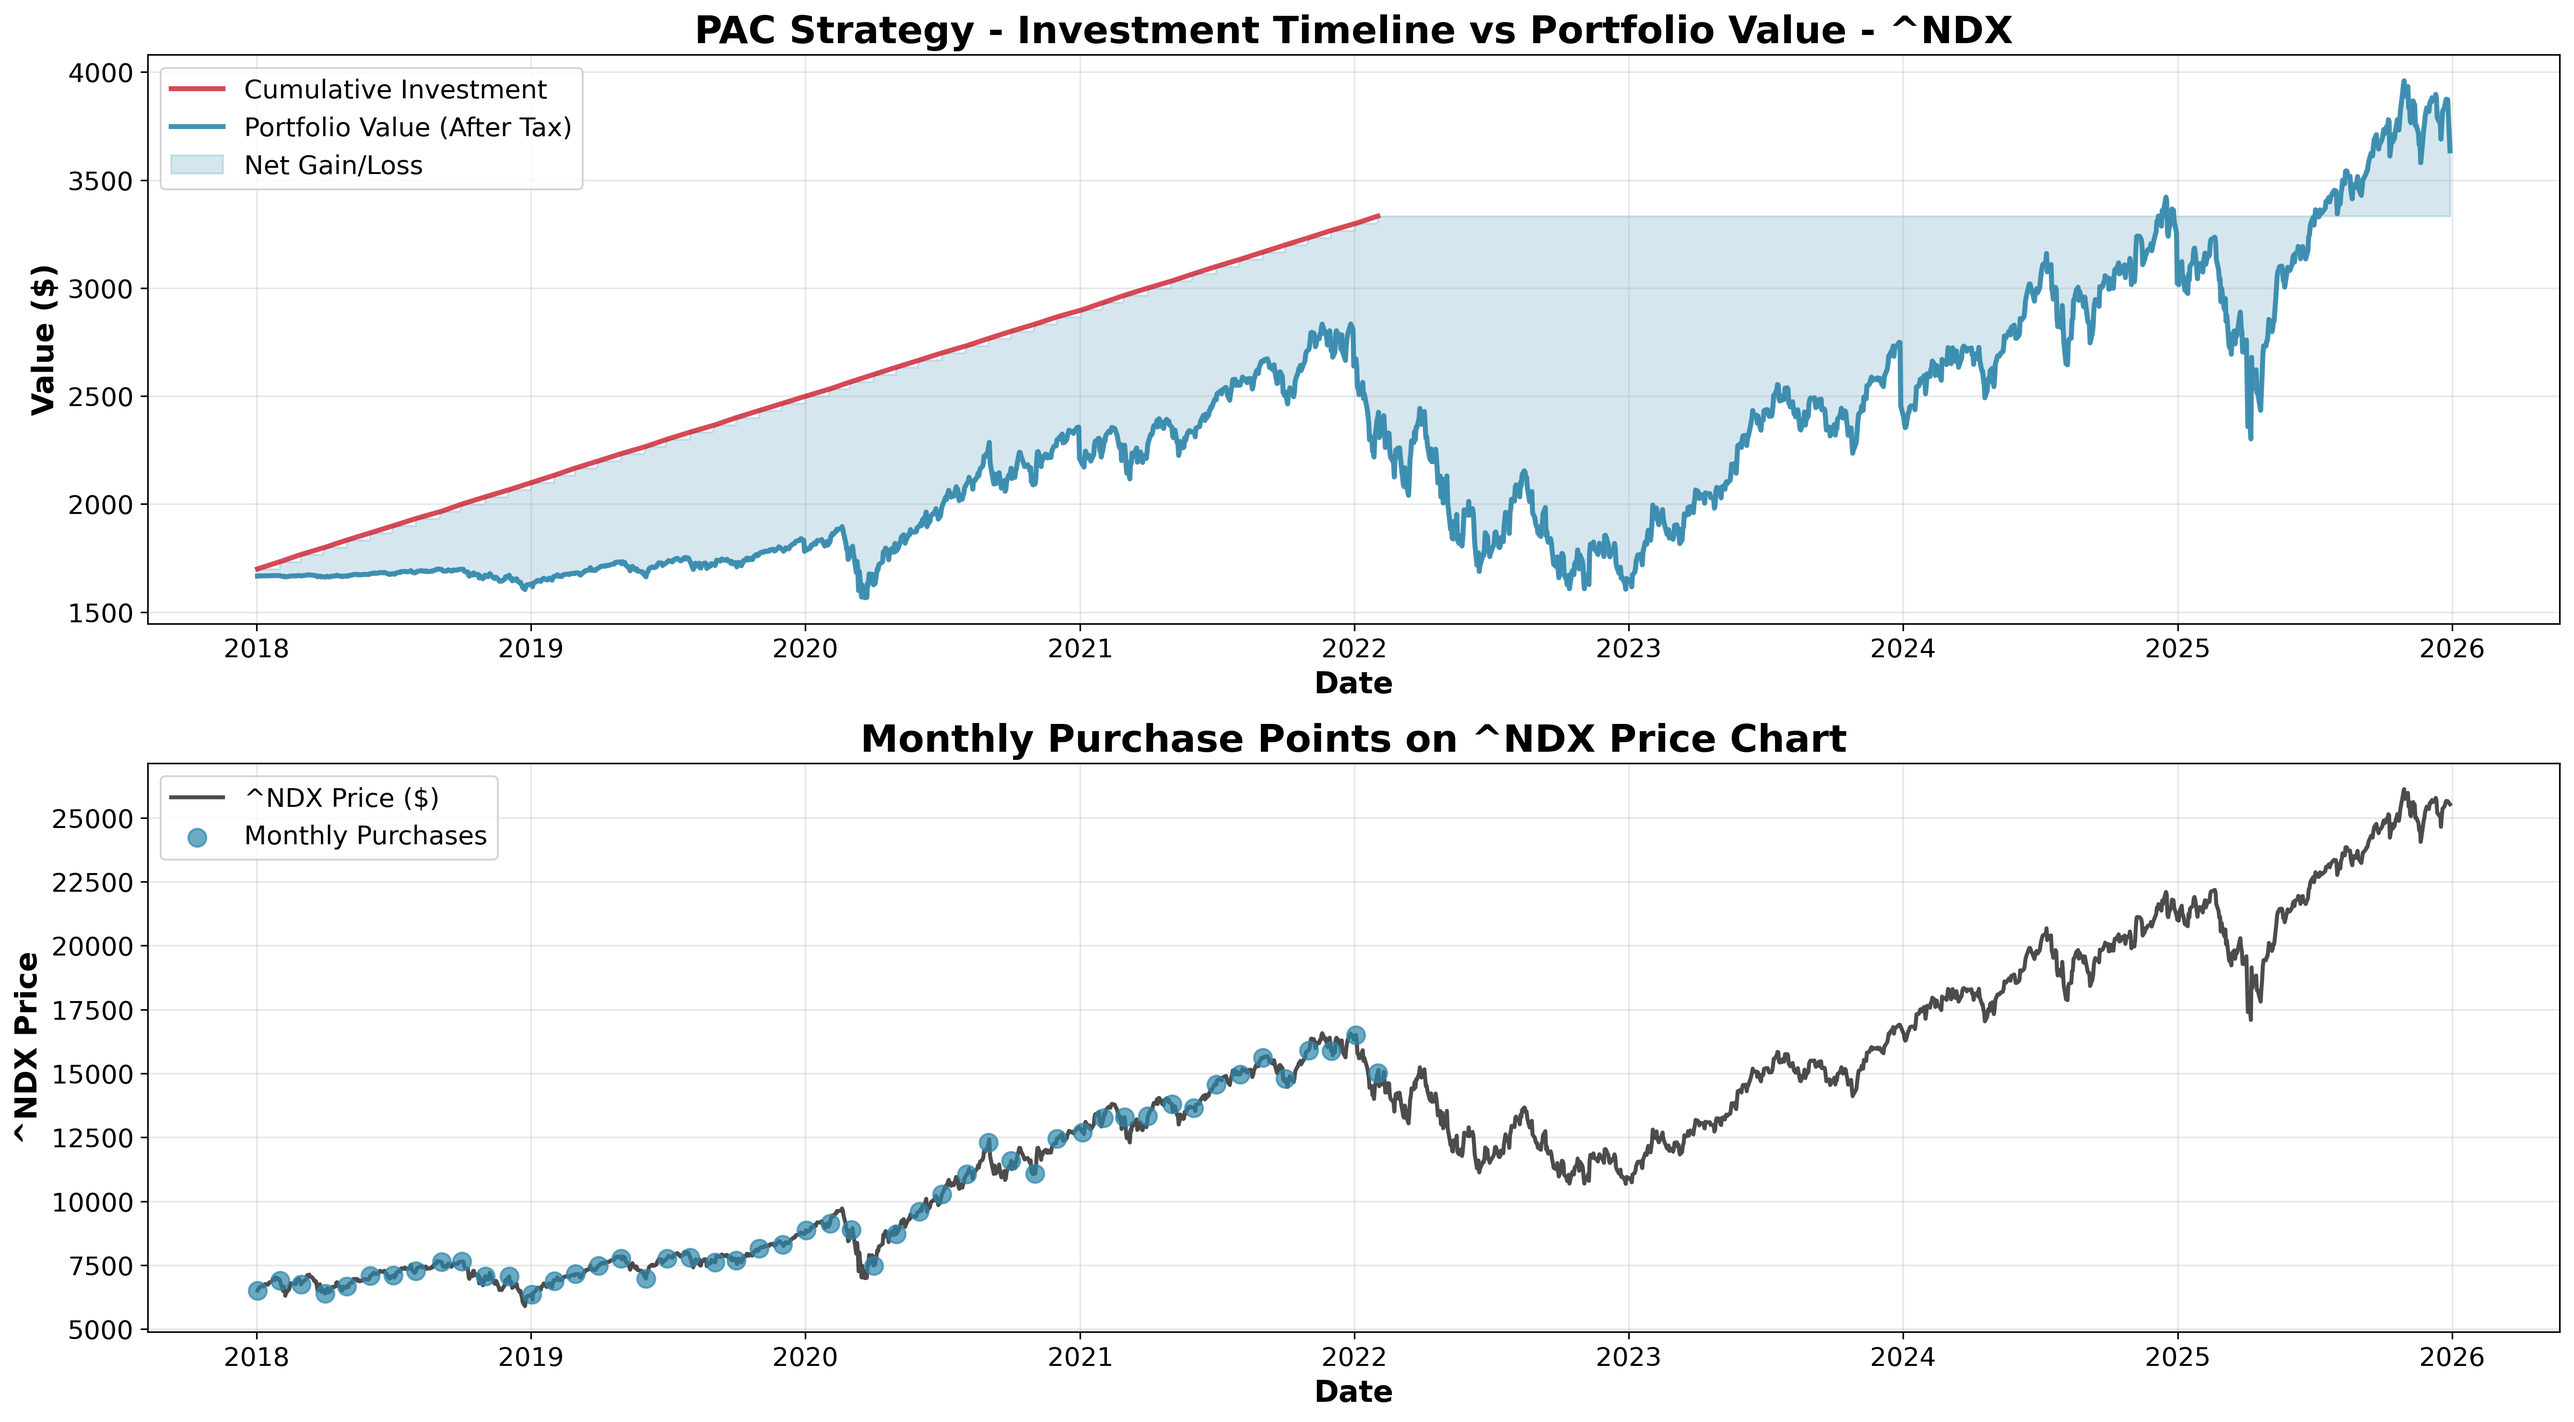
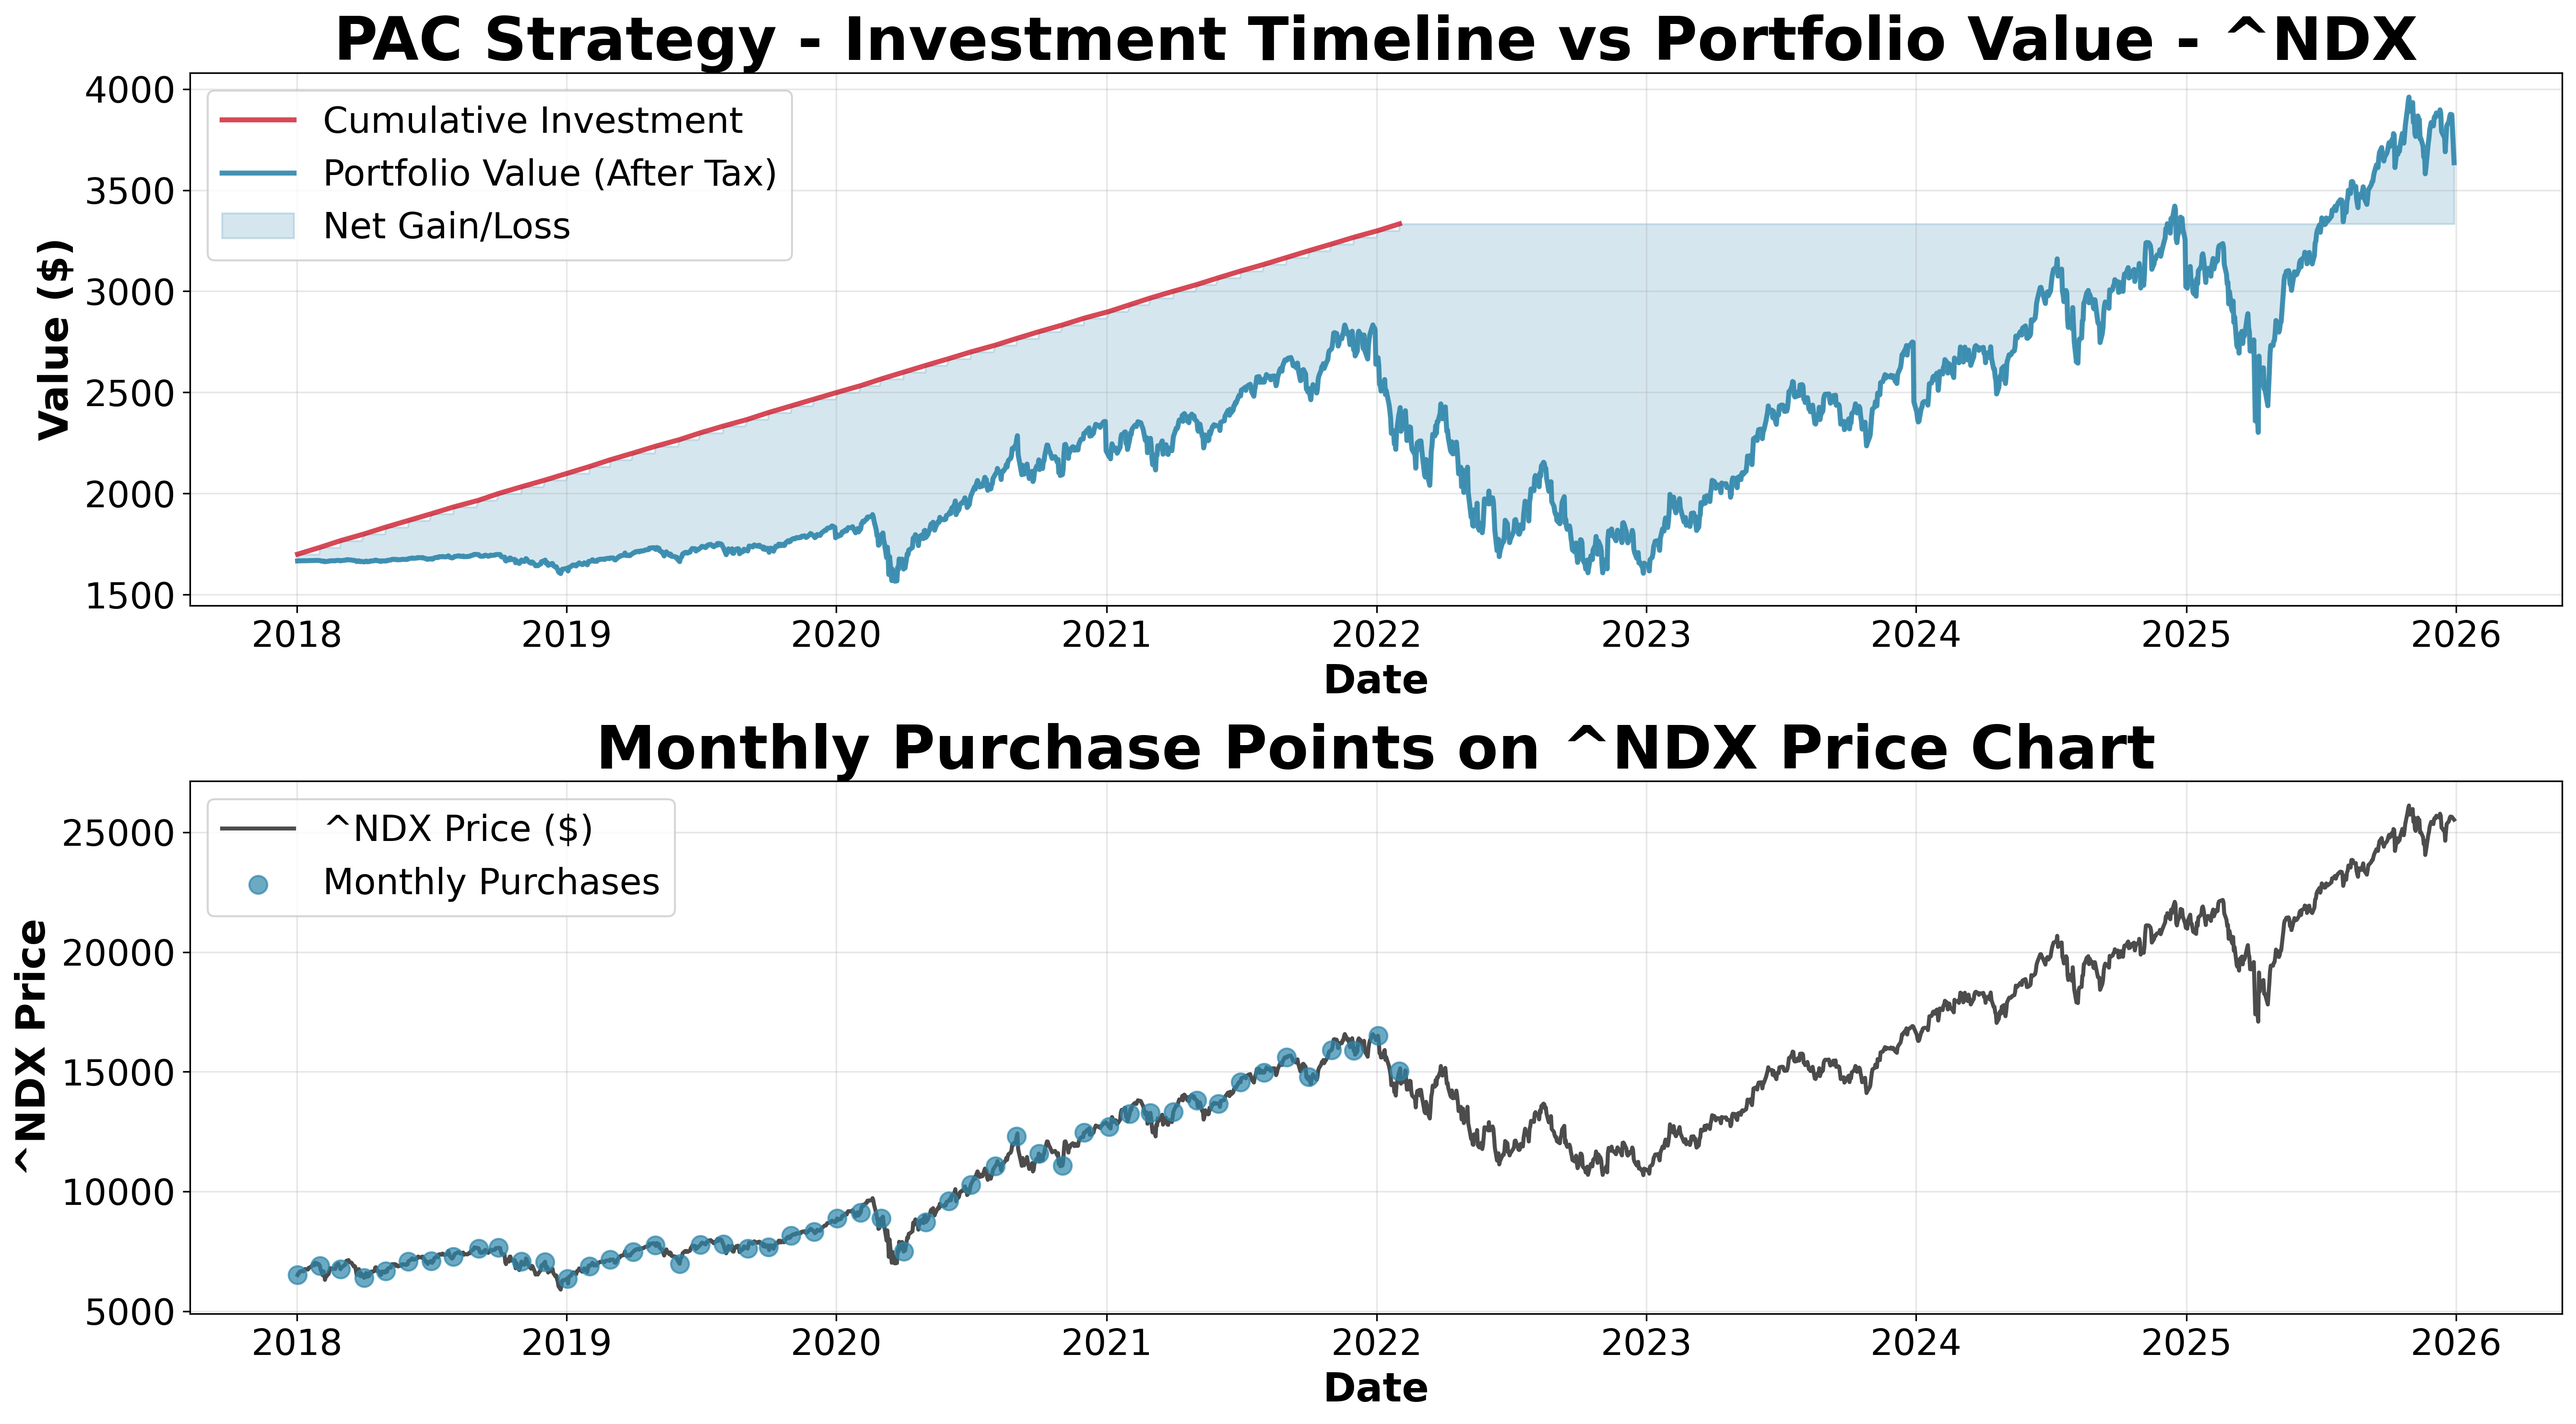
hotfix: bigger font size on charts

diff --git a/account_data.py b/account_data.py
@@ -45,19 +45,19 @@ ROBO_HIGH_RISK  = 1.189 #Total returns from 01-01-2018, From MoneyFarm website (
 #Graphics Config
 FONT_CONFIG = {
     # Main elements
-    'title': 19,           # Graph titles
-    'suptitle': 19,        # Figure super titles
-    'axis_label': 15,      # X and Y axis labels
+    'title': 30,           # Graph titles
+    'suptitle': 30,        # Figure super titles
+    'axis_label': 20,      # X and Y axis labels
     
     # Secondary elements  
-    'tick_label': 13,      # Axis tick numbers
-    'legend': 13,          # Legend text
-    'annotation': 12,      # Annotations and notes
+    'tick_label': 18,      # Axis tick numbers
+    'legend': 18,          # Legend text
+    'annotation': 15,      # Annotations and notes
     
     # Data labels
-    'bar_label': 11,       # Numbers on bar charts
-    'table_text': 13,      # Table cells
-    'table_header': 14,    # Table headers
+    'bar_label': 15,       # Numbers on bar charts
+    'table_text': 15,      # Table cells
+    'table_header': 15,    # Table headers
 }
 
 COLOR_CONFIG = {
